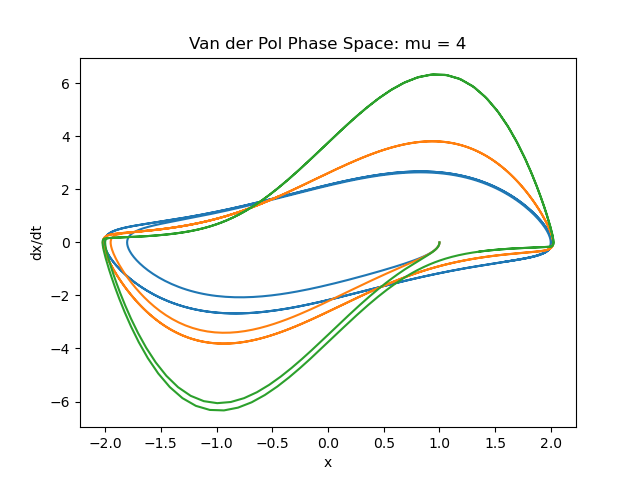
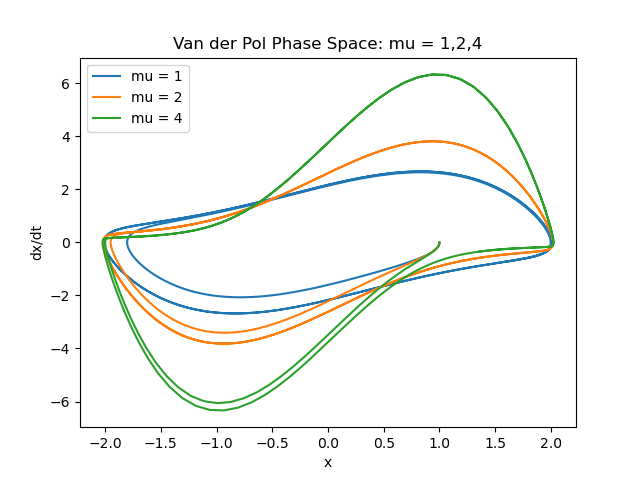
changes to part e for Q1

Changed region(s): [[0.2812, 0.0625, 0.75, 0.125], [0.125, 0.125, 0.2812, 0.2812]]

diff --git a/ps-9/Newman8.6.py b/ps-9/Newman8.6.py
@@ -144,10 +144,11 @@ tpoints = np.arange(a,b,h)
 for mu in [1,2,4]:
     r = np.array([1.0,0.0],float)
     xpoints, ypoints = calculate3(tpoints, r, h)
-    plt.title(f"Van der Pol Phase Space: mu = {mu}")
+    plt.title(f"Van der Pol Phase Space: mu = 1,2,4")
     plt.xlabel("x")
     plt.ylabel("dx/dt")
-    plt.plot(xpoints,ypoints)
+    plt.plot(xpoints,ypoints, label= f"mu = {mu}")
+plt.legend()
 plt.savefig('plot6.png')
 plt.close()
 
